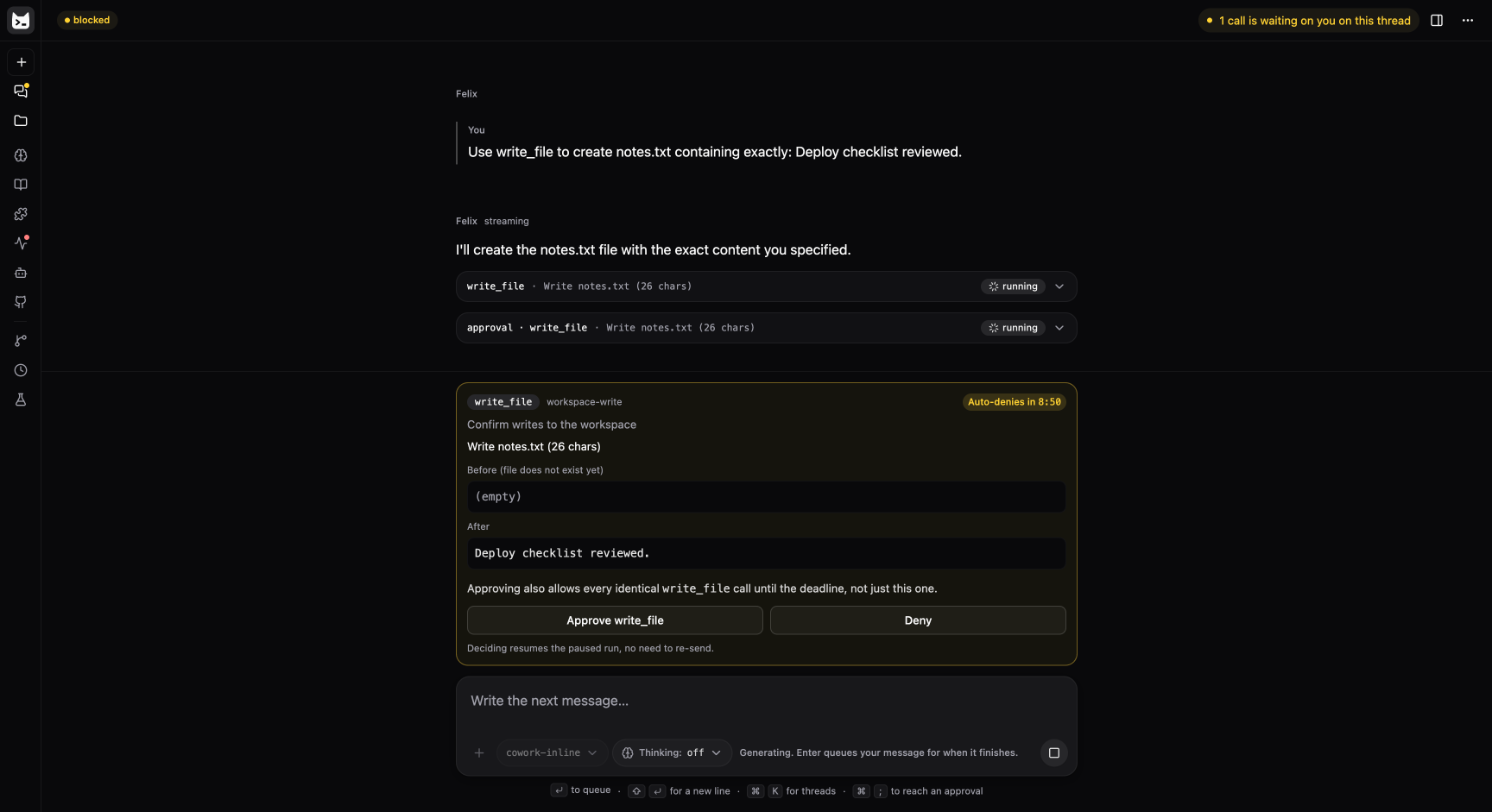
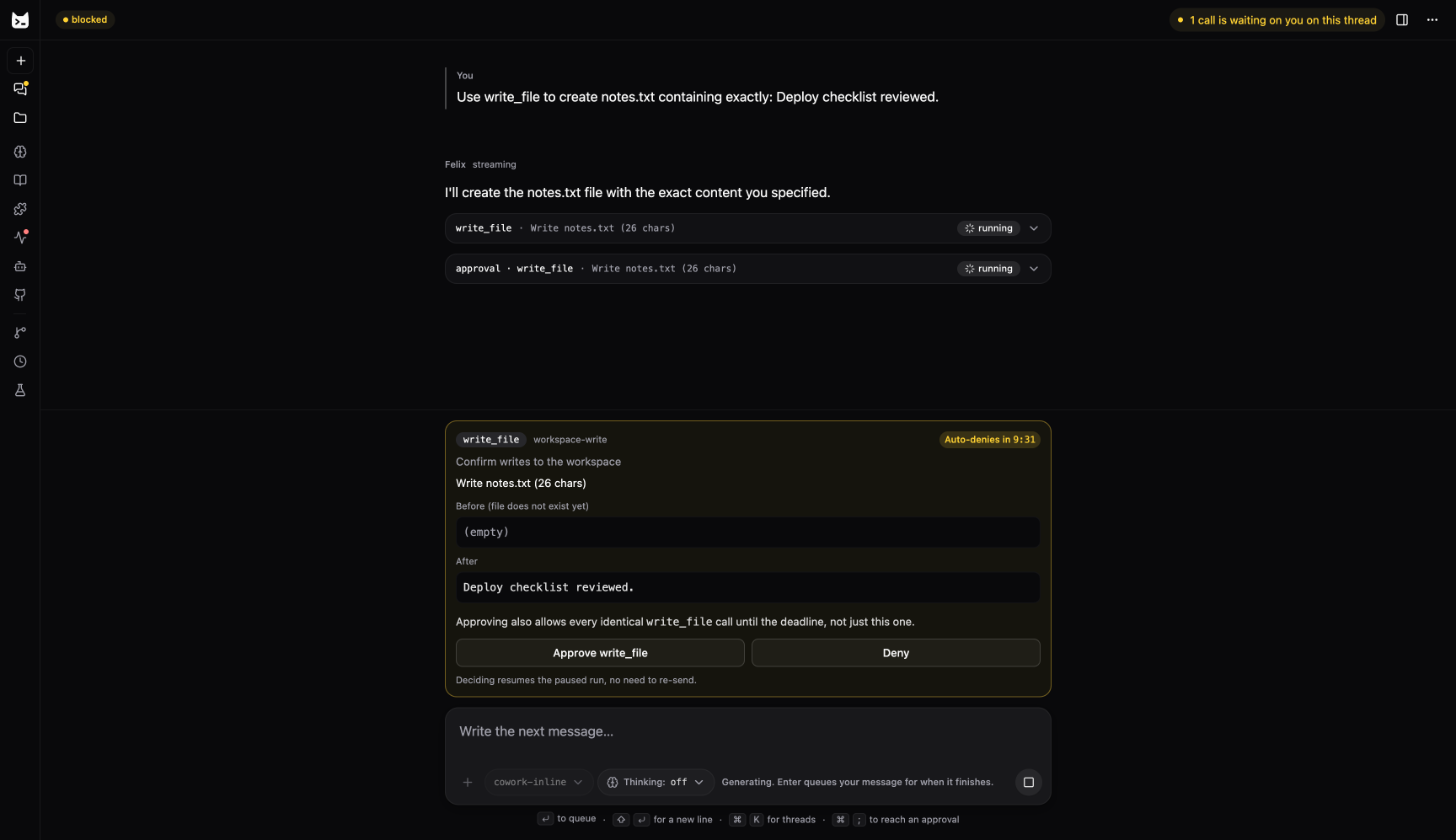
Recapture the Concepts full-window screenshot without the stray empty turn.

diff --git a/apps/docs/.impeccable/surfaces/src.md b/apps/docs/.impeccable/surfaces/src.md
@@ -51,5 +51,5 @@ home page is a front door, not a landing page.
   state ramp (see DESIGN.md → Colors). Replacing the code theme is a decision, not yet made.
 - **The screenshot is under 2x.** Recaptured 2026-10-08 against harness v0.11.2 after chat-ui
   dropped its dotted transcript texture: the card crop is ~1.8x (1400px for ~790 CSS px) and the
-  full window is 1492px for a 1728px viewport. The browser tool caps its resolution, and macOS
+  full window is 1456px for a 1728px viewport. The browser tool caps its resolution, and macOS
   `screencapture` could not reach the automation window, so a true 2x capture is still open.
